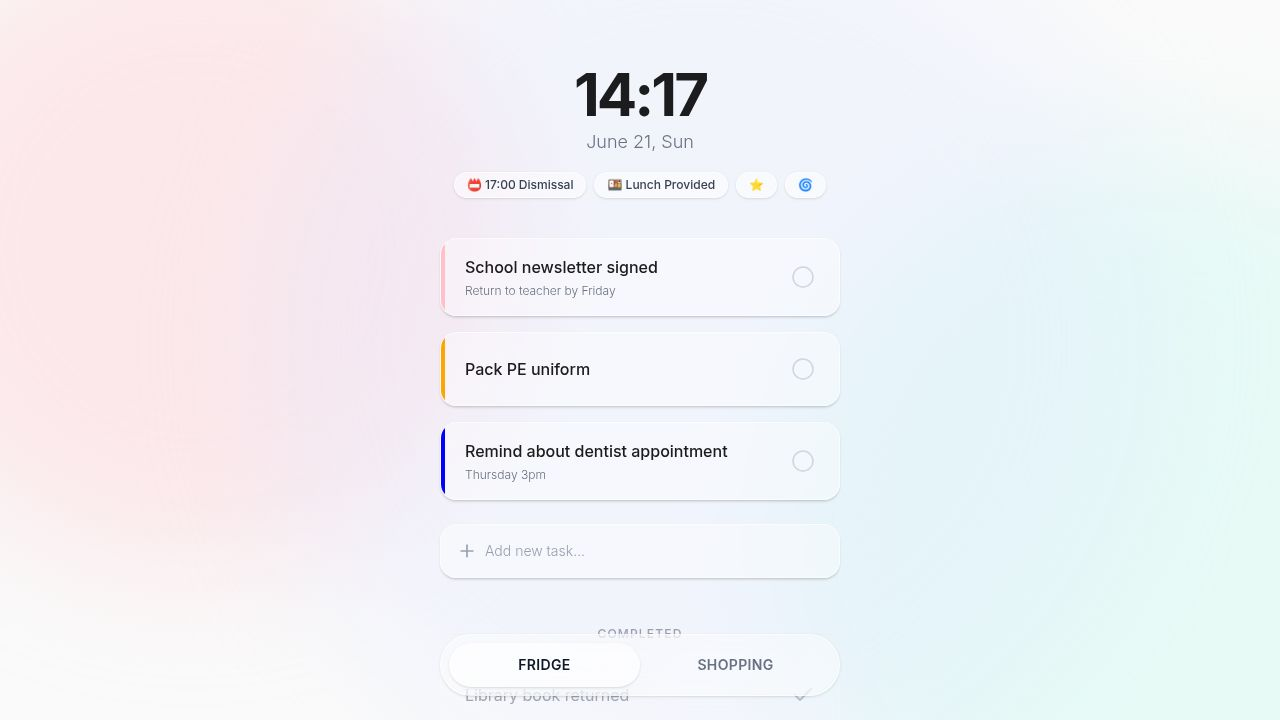
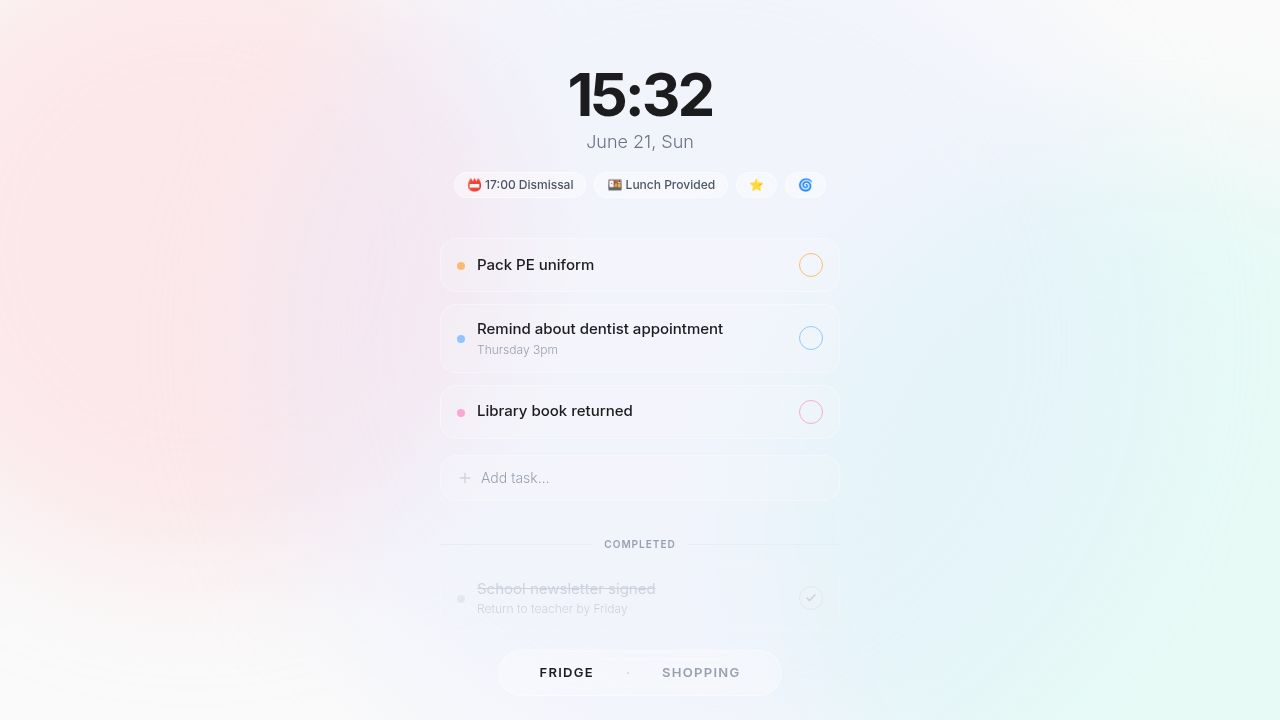
Connect app to Supabase for real-time data management
Integrates Supabase client for fetching, adding, and updating fridge items, replacing previous API calls and local state management.

Replit-Commit-Author: Agent
Replit-Commit-Session-Id: 754e4403-10f6-4d97-8d08-a36eb89521af
Replit-Commit-Checkpoint-Type: full_checkpoint
Replit-Commit-Event-Id: d6a0f5f2-87ea-4ac0-9305-06fafa1fa4fe
Replit-Commit-Screenshot-Url: https://storage.googleapis.com/screenshot-production-us-central1/7a999209-1575-445d-a2c1-9eaeed2cf75e/754e4403-10f6-4d97-8d08-a36eb89521af/BhwnVcJ
Replit-Helium-Checkpoint-Created: true

diff --git a/artifacts/digital-fridge/src/pages/home.tsx b/artifacts/digital-fridge/src/pages/home.tsx
@@ -1,46 +1,77 @@
 import { useState } from "react";
-import { useListEvents, useGetSummary } from "@workspace/api-client-react";
+import { useQuery, useMutation, useQueryClient } from "@tanstack/react-query";
 import { Clock } from "@/components/clock";
 import { StatusBadges } from "@/components/status-badges";
 import { EventList } from "@/components/event-list";
 import { TabBar } from "@/components/tab-bar";
+import {
+  fetchFridgeItems,
+  insertFridgeItem,
+  updateFridgeItem,
+  type FridgeCategory,
+} from "@/lib/fridge-items";
+
+const FRIDGE_ITEMS_KEY = ["fridge_items"];
 
 export default function Home() {
-  const [activeTab, setActiveTab] = useState<"task" | "shopping">("task");
-  
-  const { data: events = [] } = useListEvents();
-  const { data: summary } = useGetSummary();
+  const [activeTab, setActiveTab] = useState<FridgeCategory>("task");
+  const queryClient = useQueryClient();
 
-  const filteredEvents = events.filter(e => e.genre === activeTab);
-  
+  const { data: allItems = [] } = useQuery({
+    queryKey: FRIDGE_ITEMS_KEY,
+    queryFn: fetchFridgeItems,
+  });
+
+  const addMutation = useMutation({
+    mutationFn: (vars: { title: string; category: FridgeCategory }) =>
+      insertFridgeItem({ title: vars.title, category: vars.category }),
+    onSuccess: () => queryClient.invalidateQueries({ queryKey: FRIDGE_ITEMS_KEY }),
+  });
+
+  const toggleMutation = useMutation({
+    mutationFn: (vars: { id: number; done: boolean }) =>
+      updateFridgeItem(vars.id, { done: vars.done }),
+    onSuccess: () => queryClient.invalidateQueries({ queryKey: FRIDGE_ITEMS_KEY }),
+  });
+
+  const handleAdd = async (title: string, category: FridgeCategory) => {
+    await addMutation.mutateAsync({ title, category });
+  };
+
+  const handleToggle = (id: number, done: boolean) => {
+    toggleMutation.mutate({ id, done });
+  };
+
+  const filteredItems = allItems.filter((i) => i.category === activeTab);
+  const activeTaskCount = allItems.filter((i) => i.category === "task" && !i.done).length;
+
   return (
     <div className="min-h-[100dvh] w-full bg-[#FAFAFA] relative overflow-x-hidden text-[#1C1C1E] selection:bg-black/10 font-sans">
-      {/* Blurry blobs */}
       <div className="fixed top-[-10%] left-[-10%] w-[50vw] h-[50vw] bg-rose-200/40 rounded-full blur-3xl pointer-events-none" />
       <div className="fixed top-[20%] right-[-20%] w-[60vw] h-[60vw] bg-teal-100/40 rounded-full blur-3xl pointer-events-none" />
       <div className="fixed bottom-[-10%] left-[20%] w-[70vw] h-[70vw] bg-indigo-100/30 rounded-full blur-3xl pointer-events-none" />
 
-      {/* Main Content Container */}
       <main className="relative z-10 max-w-md mx-auto min-h-screen px-6 pt-16 pb-32 flex flex-col">
-        
-        {/* Header */}
         <header className="mb-10 text-center animate-in fade-in slide-in-from-top-4 duration-700 ease-out">
           <Clock />
           <StatusBadges />
         </header>
 
-        {/* List Area */}
         <div className="flex-1 animate-in fade-in slide-in-from-bottom-4 duration-700 ease-out delay-150 fill-mode-both">
-          <EventList events={filteredEvents} genre={activeTab} />
+          <EventList
+            items={filteredItems}
+            category={activeTab}
+            onAdd={handleAdd}
+            onToggle={handleToggle}
+            isAdding={addMutation.isPending}
+          />
         </div>
-
       </main>
 
-      {/* Tab Bar */}
-      <TabBar 
-        activeTab={activeTab} 
-        onChange={setActiveTab} 
-        activeCount={summary?.active_tasks || 0} 
+      <TabBar
+        activeTab={activeTab}
+        onChange={setActiveTab}
+        activeCount={activeTaskCount}
       />
     </div>
   );

diff --git a/artifacts/digital-fridge/src/components/event-list.tsx b/artifacts/digital-fridge/src/components/event-list.tsx
@@ -1,41 +1,34 @@
 import { useState } from "react";
-import { Event, EventGenre } from "@workspace/api-client-react";
-import { useCreateEvent, getListEventsQueryKey } from "@workspace/api-client-react";
-import { useQueryClient } from "@tanstack/react-query";
-import { EventCard } from "./event-card";
 import { Plus } from "lucide-react";
+import { EventCard } from "./event-card";
+import type { FridgeCategory, FridgeItem } from "@/lib/fridge-items";
 
 interface EventListProps {
-  events: Event[];
-  genre: EventGenre;
+  items: FridgeItem[];
+  category: FridgeCategory;
+  onAdd: (title: string, category: FridgeCategory) => Promise<void>;
+  onToggle: (id: number, done: boolean) => void;
+  isAdding?: boolean;
 }
 
-export function EventList({ events, genre }: EventListProps) {
-  const [newItemTitle, setNewItemTitle] = useState("");
-  const createEvent = useCreateEvent();
-  const queryClient = useQueryClient();
+export function EventList({ items, category, onAdd, onToggle, isAdding }: EventListProps) {
+  const [newTitle, setNewTitle] = useState("");
 
-  const activeEvents = events.filter((e) => !e.done);
-  const doneEvents = events.filter((e) => e.done);
+  const activeItems = items.filter((i) => !i.done);
+  const doneItems = items.filter((i) => i.done);
 
-  const handleAdd = (e: React.FormEvent) => {
+  const handleAdd = async (e: React.FormEvent) => {
     e.preventDefault();
-    if (!newItemTitle.trim()) return;
-    createEvent.mutate(
-      { data: { title: newItemTitle.trim(), genre } },
-      {
-        onSuccess: () => {
-          setNewItemTitle("");
-          queryClient.invalidateQueries({ queryKey: getListEventsQueryKey() });
-        },
-      }
-    );
+    const trimmed = newTitle.trim();
+    if (!trimmed) return;
+    await onAdd(trimmed, category);
+    setNewTitle("");
   };
 
   return (
     <div className="flex flex-col gap-3 pb-28">
-      {activeEvents.map((event) => (
-        <EventCard key={event.id} event={event} />
+      {activeItems.map((item) => (
+        <EventCard key={item.id} item={item} onToggle={onToggle} />
       ))}
 
       <form
@@ -44,22 +37,22 @@ export function EventList({ events, genre }: EventListProps) {
       >
         <button
           type="submit"
-          disabled={createEvent.isPending || !newItemTitle.trim()}
+          disabled={isAdding || !newTitle.trim()}
           className="text-gray-400 hover:text-gray-600 transition-colors disabled:opacity-40"
         >
           <Plus className="w-4 h-4" />
         </button>
         <input
           type="text"
-          value={newItemTitle}
-          onChange={(e) => setNewItemTitle(e.target.value)}
-          placeholder={genre === "task" ? "Add task…" : "Add item…"}
+          value={newTitle}
+          onChange={(e) => setNewTitle(e.target.value)}
+          placeholder={category === "task" ? "Add task…" : "Add item…"}
           className="flex-1 bg-transparent border-none focus:outline-none text-sm text-[#1C1C1E] placeholder:text-gray-400 font-light"
-          disabled={createEvent.isPending}
+          disabled={isAdding}
         />
       </form>
 
-      {doneEvents.length > 0 && (
+      {doneItems.length > 0 && (
         <div className="mt-6">
           <div className="flex items-center gap-3 mb-3">
             <div className="h-px flex-1 bg-gray-200/60" />
@@ -69,8 +62,8 @@ export function EventList({ events, genre }: EventListProps) {
             <div className="h-px flex-1 bg-gray-200/60" />
           </div>
           <div className="flex flex-col gap-3">
-            {doneEvents.map((event) => (
-              <EventCard key={event.id} event={event} />
+            {doneItems.map((item) => (
+              <EventCard key={item.id} item={item} onToggle={onToggle} />
             ))}
           </div>
         </div>

diff --git a/artifacts/digital-fridge/src/components/event-card.tsx b/artifacts/digital-fridge/src/components/event-card.tsx
@@ -1,7 +1,5 @@
-import { Event } from "@workspace/api-client-react";
-import { useUpdateEvent, getListEventsQueryKey } from "@workspace/api-client-react";
-import { useQueryClient } from "@tanstack/react-query";
 import { cn } from "@/lib/utils";
+import type { FridgeItem } from "@/lib/fridge-items";
 
 const ACCENT_MAP: Record<string, string> = {
   pink: "#f9a8d4",
@@ -19,61 +17,53 @@ function accentDotColor(accent: string | null | undefined): string {
   return ACCENT_MAP[accent.toLowerCase()] ?? accent;
 }
 
-export function EventCard({ event }: { event: Event }) {
-  const queryClient = useQueryClient();
-  const updateEvent = useUpdateEvent();
+interface EventCardProps {
+  item: FridgeItem;
+  onToggle: (id: number, done: boolean) => void;
+  isPending?: boolean;
+}
 
-  const toggleDone = () => {
-    updateEvent.mutate(
-      { id: event.id, data: { done: !event.done } },
-      {
-        onSuccess: () => {
-          queryClient.invalidateQueries({ queryKey: getListEventsQueryKey() });
-        },
-      }
-    );
-  };
-
-  const dotColor = accentDotColor(event.accent_color);
+export function EventCard({ item, onToggle, isPending }: EventCardProps) {
+  const dotColor = accentDotColor(item.accent_color);
 
   return (
     <div
       className={cn(
         "flex items-center gap-3 px-4 py-3.5 rounded-2xl transition-all duration-200",
         "bg-white/15 backdrop-blur-xl border border-white/30",
-        event.done ? "opacity-40" : "opacity-100"
+        item.done ? "opacity-40" : "opacity-100"
       )}
     >
       <span
         className="shrink-0 w-2 h-2 rounded-full mt-0.5 transition-colors duration-200"
-        style={{ backgroundColor: event.done ? "#d1d5db" : dotColor }}
+        style={{ backgroundColor: item.done ? "#d1d5db" : dotColor }}
       />
 
       <div className="flex-1 min-w-0">
         <h3
           className={cn(
             "text-[15px] font-medium text-[#1C1C1E] leading-snug truncate transition-all duration-200",
-            event.done && "line-through text-gray-400 font-normal"
+            item.done && "line-through text-gray-400 font-normal"
           )}
         >
-          {event.title}
+          {item.title}
         </h3>
-        {event.detail && (
-          <p className="text-xs text-gray-400 mt-0.5 font-light truncate">{event.detail}</p>
+        {item.detail && (
+          <p className="text-xs text-gray-400 mt-0.5 font-light truncate">{item.detail}</p>
         )}
       </div>
 
       <button
-        onClick={toggleDone}
-        aria-label={event.done ? "Mark incomplete" : "Mark complete"}
-        disabled={updateEvent.isPending}
+        onClick={() => onToggle(item.id, !item.done)}
+        aria-label={item.done ? "Mark incomplete" : "Mark complete"}
+        disabled={isPending}
         className="shrink-0 w-6 h-6 rounded-full border-[1.5px] flex items-center justify-center transition-all duration-150 active:scale-90 focus:outline-none disabled:opacity-50"
         style={{
-          borderColor: event.done ? "#d1d5db" : dotColor,
-          backgroundColor: event.done ? "rgba(243,244,246,0.6)" : "transparent",
+          borderColor: item.done ? "#d1d5db" : dotColor,
+          backgroundColor: item.done ? "rgba(243,244,246,0.6)" : "transparent",
         }}
       >
-        {event.done && (
+        {item.done && (
           <svg width="10" height="8" viewBox="0 0 10 8" fill="none">
             <path
               d="M1 4L3.5 6.5L9 1"

diff --git a/artifacts/digital-fridge/src/components/status-badges.tsx b/artifacts/digital-fridge/src/components/status-badges.tsx
@@ -1,9 +1,32 @@
-import { useGetConfig } from "@workspace/api-client-react";
+import { useQuery } from "@tanstack/react-query";
+import { supabase } from "@/lib/supabase";
+
+interface DailyConfig {
+  id: number;
+  dismissal_time: string | null;
+  has_lunchbox: boolean;
+  has_star: boolean;
+  has_dog: boolean;
+  has_spiral: boolean;
+}
+
+async function fetchConfig(): Promise<DailyConfig | null> {
+  const { data, error } = await supabase
+    .from("daily_config")
+    .select("*")
+    .limit(1)
+    .maybeSingle();
+  if (error) throw new Error(error.message);
+  return data as DailyConfig | null;
+}
 
 export function StatusBadges() {
-  const { data: config } = useGetConfig();
+  const { data: config } = useQuery({
+    queryKey: ["daily_config"],
+    queryFn: fetchConfig,
+  });
 
-  if (!config) return <div className="h-8" />; // placeholder
+  if (!config) return <div className="h-8" />;
 
   return (
     <div className="flex flex-wrap justify-center gap-2 mt-4">